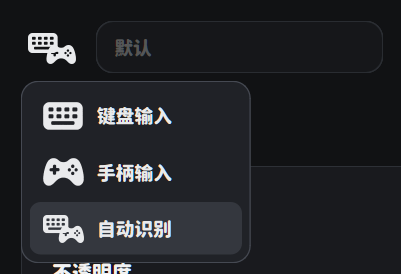
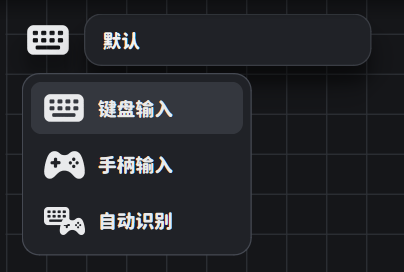
updated

diff --git a/wiki.html b/wiki.html
@@ -92,7 +92,7 @@
             <a href="#add-gamepad">手柄控件</a>
             <a href="#edit-controls">编辑控件</a>
             <a href="#presets">管理预设</a>
-            <a href="#global-style">全局样式</a>
+            <a href="#global-style">覆盖层与个性化</a>
             <a href="#overlay">覆盖层设置</a>
             <a href="#obs">在 OBS 中使用</a>
             <a href="#updates">自动更新</a>
@@ -112,16 +112,16 @@
             <li><span>1</span><div><strong>下载程序</strong><p>从官网或最新 Release 页面下载 <code>PA-Keystroke.exe</code>。</p></div></li>
             <li><span>2</span><div><strong>运行程序</strong><p>双击运行，并按 Windows 提示允许管理员权限。程序会打开设置窗口和透明覆盖层。</p></div></li>
             <li><span>3</span><div><strong>选择输入模式</strong><p>根据场景选择键盘、手柄或自动识别模式。</p></div></li>
-            <li><span>4</span><div><strong>调整布局与样式</strong><p>在预览区调整控件，并按需设置全局样式、整体缩放和覆盖层不透明度。</p></div></li>
+            <li><span>4</span><div><strong>调整布局与样式</strong><p>在预览区调整控件，并在底部 Dock 的“覆盖层”和“个性化”卡片中调整外观与界面主题。</p></div></li>
             <li><span>5</span><div><strong>保存并应用</strong><p>完成修改后必须点击“保存并应用”，覆盖层才会使用新布局。</p></div></li>
             <li><span>6</span><div><strong>在 OBS 中添加窗口捕获</strong><p>选择 <code>PA Keystroke Overlay</code>，采集方式选择 <code>Windows 10（1903 或更新版本）</code>。</p></div></li>
           </ol>
 
-          <figure class="wiki-media wiki-media-portrait">
+          <figure class="wiki-media">
             <button class="image-zoom" type="button" data-zoom="assets/screenshots/01-main-window.png" aria-label="放大查看设置主窗口">
-              <img src="assets/screenshots/01-main-window.png" alt="PA Keystroke 设置主窗口" width="1000" height="1187" loading="eager">
+              <img src="assets/screenshots/01-main-window.png" alt="PA Keystroke 设置主窗口" width="1180" height="760" loading="eager">
             </button>
-            <figcaption>设置主窗口集成了预览、控件编辑和覆盖层设置。</figcaption>
+            <figcaption>设置主窗口以预览区为主，覆盖层、个性化和应用设置通过底部 Dock 展开。</figcaption>
           </figure>
         </section>
 
@@ -162,8 +162,6 @@
           </div>
           <p>鼠标操作不会触发自动识别模式切换，只有键盘按键和手柄操作会参与判断。</p>
           <p>自动识别模式下，预览区和预设栏会锁定为只读，避免误改布局。</p>
-          <p>鼠标操作不会触发自动识别模式切换，只有键盘按键和手柄操作会参与判断。</p>
-          <p>自动识别模式下，预览区和预设栏会锁定为只读，避免误改布局。</p>
           <figure class="wiki-media wiki-media-small">
             <button class="image-zoom" type="button" data-zoom="assets/screenshots/04-auto-mode.png" aria-label="放大查看自动识别模式">
               <img src="assets/screenshots/04-auto-mode.png" alt="PA Keystroke 自动识别模式" width="401" height="274" loading="lazy">
@@ -190,11 +188,18 @@
           <h2>添加鼠标</h2>
           <ol class="step-list compact">
             <li><span>1</span><div><strong>选择“鼠标”</strong><p>点击“＋ 添加”，然后选择“鼠标”。</p></div></li>
-            <li><span>2</span><div><strong>设置显示区域</strong><p>选择是否显示侧键和中键。</p></div></li>
+            <li><span>2</span><div><strong>设置显示区域</strong><p>选择是否显示侧键、中键、滚轮指示和位移指示。</p></div></li>
             <li><span>3</span><div><strong>调整预览控件</strong><p>移动鼠标控件并拖动边缘改变尺寸。</p></div></li>
             <li><span>4</span><div><strong>保存并应用</strong><p>先点击弹窗中的“保存”，再点击主窗口的“保存并应用”。</p></div></li>
           </ol>
           <p>鼠标控件支持左键、右键、中键、侧键 1 和侧键 2。</p>
+          <p>鼠标主体内部的位移点会跟随鼠标移动，停止后逐渐回到中心。滚轮指示和位移指示可以在编辑页分别开启或关闭。</p>
+          <figure class="wiki-media wiki-media-small">
+            <button class="image-zoom" type="button" data-zoom="assets/screenshots/05-mouse-control.png" aria-label="放大查看鼠标编辑页">
+              <img src="assets/screenshots/05-mouse-control.png" alt="PA Keystroke 鼠标编辑页" width="533" height="614" loading="lazy">
+            </button>
+            <figcaption>鼠标编辑页可以分别控制侧键、中键、滚轮指示和位移指示。</figcaption>
+          </figure>
         </section>
 
         <section class="wiki-section" id="add-movement">
@@ -207,6 +212,7 @@
             <li><span>4</span><div><strong>保存并应用</strong><p>完成修改后应用布局。</p></div></li>
           </ol>
           <p>位移指示器会显示鼠标移动方向，并在停止移动后逐渐回到中心。</p>
+          <p>这是独立的位移指示器控件；如果只需要在鼠标主体内部显示位移点，直接在鼠标控件的编辑页开启“显示位移指示”即可。</p>
         </section>
 
         <section class="wiki-section" id="add-wheel">
@@ -320,16 +326,23 @@
 
         <section class="wiki-section" id="global-style">
           <p class="section-kicker">12</p>
-          <h2>全局样式</h2>
-          <p>“全局样式”用于统一设置普通按键、鼠标、指示器和手柄控件的外观。展开后可以调整以下颜色：</p>
+          <h2>覆盖层与个性化</h2>
+          <p>“覆盖层”卡片用于统一设置普通按键、鼠标、指示器和手柄控件的外观：</p>
           <ul class="plain-list">
             <li><strong>背景颜色</strong>：控制控件背景显示，可通过左侧勾选框开启或关闭。</li>
             <li><strong>外框颜色</strong>：控制控件外框显示，可通过左侧勾选框开启或关闭。</li>
-            <li><strong>触发颜色</strong>：控制按下或触发时的高亮颜色。</li>
-            <li><strong>文字颜色</strong>：控制按键文字的显示颜色，文本控件不受影响。</li>
+            <li><strong>文字显示比例</strong>：整体放大或缩小键帽文字。</li>
+            <li><strong>文字阴影</strong>：控制键帽文字是否显示投影。</li>
+            <li><strong>阴影浓度</strong>：调整文字阴影的明显程度。</li>
           </ul>
           <p>颜色支持 Alpha，可直接输入 <code>#RRGGBBAA</code>，也可以打开选色器后通过透明度滑条调整。</p>
-          <p>外框颜色关闭时，普通按键不显示外框；鼠标、指示器和手柄控件会恢复各自默认外框，避免控件不可见。</p>
+          <p>键帽文字颜色、触发颜色和阴影颜色会根据当前背景色自动推导，设置中不再单独提供手选。外框颜色关闭时，普通按键不显示外框；鼠标、指示器和手柄控件会恢复各自默认外框，避免控件不可见。</p>
+          <p>“个性化”卡片用于调整软件界面本身：</p>
+          <ul class="plain-list">
+            <li><strong>主题</strong>：深色、浅色、自动跟随系统。</li>
+            <li><strong>主题色</strong>：使用普通选色器选择强调色，并自动校正与界面的对比度。</li>
+          </ul>
+          <p>主题只影响设置界面和预览区外观，不会改变覆盖层中按键、鼠标和手柄控件的实际样式。</p>
         </section>
 
         <section class="wiki-section" id="overlay">
@@ -366,13 +379,16 @@
           <p>开启后覆盖层会移出所有屏幕，用户当前屏幕和直播画面中不会看到它，但窗口仍保持运行，可通过 OBS 的窗口捕获继续获取画面。</p>
           <p>关闭隐藏后，覆盖层会恢复到隐藏前的位置。切换锁定、调整缩放或保存设置不会把隐藏中的覆盖层拉回屏幕。</p>
 
+          <h3>应用设置</h3>
+          <p>“应用”卡片可以控制开机自启动、启动时是否显示设置窗口、启动时检查更新，以及关闭设置窗口时是否退出程序。</p>
+
           <h3>系统托盘</h3>
           <p>系统托盘菜单提供设置、锁定覆盖层、隐藏覆盖层、开机自启动、关于和退出。</p>
           <p>“隐藏覆盖层”与设置窗口中的同名开关双向同步，修改后会立即保存。</p>
 
           <h3>开机自启动</h3>
-          <p>勾选托盘菜单中的“开机自启动”后，程序会在 Windows 登录时启动。</p>
-          <p>开机启动只运行覆盖层并保留系统托盘图标，不显示设置主窗口。需要调整设置时，可以从托盘菜单点击“设置”或双击图标。</p>
+          <p>勾选托盘菜单或“应用”卡片中的“开机自启动”后，程序会在 Windows 登录时启动。</p>
+          <p>开机启动时是否显示设置窗口，由“应用”卡片中的“启动时显示设置”决定。关闭后只运行覆盖层并保留系统托盘图标；需要调整设置时，可以从托盘菜单点击“设置”或双击图标。</p>
         </section>
 
         <section class="wiki-section" id="obs">
@@ -400,9 +416,9 @@
         <section class="wiki-section" id="updates">
           <p class="section-kicker">15</p>
           <h2>自动检查更新</h2>
-          <p>程序每次启动时都会检查公开 Release 仓库。检查期间标题栏会显示加载动画；如果没有新版本，动画会自动隐藏。</p>
+          <p>程序默认在启动时检查公开 Release 仓库，可以在“应用”卡片中关闭“启动时检查更新”。检查期间标题栏会显示加载动画；如果没有新版本，动画会自动隐藏。</p>
           <p>发现新版本时，可以从更新提示中查看更新日志、打开发布页面、下载更新，并自动替换和重启。更新日志支持保留原文换行和显示 GitHub Release 正文中的远程图片。</p>
-          <p>也可以在关于页手动检查更新。</p>
+          <p>也可以在关于页手动检查更新；关闭自动检查后，仍可通过关于页检查。</p>
         </section>
 
         <section class="wiki-section" id="data-directory">
@@ -415,7 +431,7 @@
             <div><code>keystroke_presets.json</code><span>键盘预设</span></div>
             <div><code>keystroke_gamepad.json</code><span>当前手柄布局</span></div>
             <div><code>keystroke_gamepad_presets.json</code><span>手柄预设</span></div>
-            <div><code>user_settings.json</code><span>用户设置、覆盖层和运行设置</span></div>
+            <div><code>user_settings.json</code><span>用户设置、主题、覆盖层和运行设置</span></div>
           </div>
           <p>备份或迁移数据时，请先退出 PA Keystroke，再复制整个数据目录。</p>
         </section>

diff --git a/download.html b/download.html
@@ -59,9 +59,9 @@
           下载 PA-Keystroke.exe
         </a>
         <div class="release-facts" aria-live="polite" data-release-facts>
-          <span>版本 <strong data-release-version>v1.0.01</strong></span>
-          <span>大小 <strong data-release-size>48.2 MB</strong></span>
-          <span>更新 <strong data-release-date>2026-09-29</strong></span>
+          <span>版本 <strong data-release-version>v1.1.00</strong></span>
+          <span>大小 <strong data-release-size>48.3 MB</strong></span>
+          <span>更新 <strong data-release-date>2026-10-13</strong></span>
         </div>
         <a class="text-link" href="https://github.com/PA-Keystroke/PA-Keystroke-Releases/releases" target="_blank" rel="noreferrer">
           查看全部版本 <i data-lucide="arrow-right" aria-hidden="true"></i>
@@ -69,23 +69,23 @@
         <details class="release-notes" data-release-notes-panel>
           <summary>
             <span>更新日志</span>
-            <span data-release-notes-version>v1.0.01</span>
+            <span data-release-notes-version>v1.1.00</span>
             <i data-lucide="chevron-down" aria-hidden="true"></i>
           </summary>
           <div class="release-notes-body" data-release-notes>
             <h4>Changelog</h4>
-            <p><strong>特性优化</strong></p>
+            <p><strong>功能新增</strong></p>
             <ul>
-              <li>优化中英文混排字体显示。</li>
-              <li>优化预设列表显示、重命名体验和新建预设后的滚动定位。</li>
-              <li>优化自动识别模式下的预览、只读锁定和设备切换。</li>
-              <li>优化弹窗标题栏。</li>
+              <li>新增深色、浅色、自动跟随系统三套主题。</li>
+              <li>设置窗改为预览区铺满，使用 Dock 卡片管理覆盖层、个性化和应用。</li>
+              <li>鼠标控件新增内置位移点，滚轮指示和位移指示可分别显示。</li>
+              <li>新增开机自启动、启动时显示设置、启动时检查更新和关闭设置窗口时退出。</li>
             </ul>
             <p><strong>问题修复</strong></p>
             <ul>
-              <li>修复文本描边重影和部分中英文混排问题。</li>
-              <li>修复左右 Shift、Ctrl、Alt 无法识别的问题。</li>
-              <li>修复 Win 键显示错误、控件高度异常和圆角不一致。</li>
+              <li>修复 ESC 录制、键帽自动配色和背景触发过渡等问题。</li>
+              <li>修复卡片图标、主题下拉框、浅色模式配色和卡片展开避让问题。</li>
+              <li>修复保存并应用按钮错位、鼠标移动控件未触发保存和右键菜单堆叠问题。</li>
             </ul>
           </div>
         </details>

diff --git a/features.html b/features.html
@@ -62,11 +62,12 @@
           <div class="feature-copy">
             <p class="section-label reveal">键盘与鼠标</p>
             <h3 class="reveal">按键和移动方向，实时反馈。</h3>
-            <p class="reveal">按键按下时立即高亮。鼠标支持左键、右键、中键、侧键以及位移方向指示器。</p>
+            <p class="reveal">按键按下时立即高亮。鼠标支持左键、右键、中键、侧键，主体内部也可以显示位移点和滚轮反馈。</p>
             <ul class="feature-list reveal">
               <li>键盘布局按实际位置显示</li>
               <li>鼠标按键状态和高亮反馈</li>
-              <li>位移圆点跟随鼠标方向移动</li>
+              <li>鼠标内置位移点跟随移动方向</li>
+              <li>滚轮提示和位移提示可分别开关</li>
             </ul>
           </div>
           <div class="feature-media reveal">
@@ -87,6 +88,22 @@
           </div>
           <div class="feature-media compact-media reveal">
             <img src="assets/screenshots/03-overlay-gamepad.png" alt="PA Keystroke 手柄覆盖层" width="735" height="560" loading="lazy">
+          </div>
+        </article>
+
+        <article class="feature-block reverse" data-reveal-group>
+          <div class="feature-copy">
+            <p class="section-label reveal">界面主题</p>
+            <h3 class="reveal">深色、浅色，自动跟随系统。</h3>
+            <p class="reveal">设置窗口以预览区为主，通过底部 Dock 展开覆盖层、个性化和应用设置。主题色可以自由选择，并自动校正与界面的对比度。</p>
+            <ul class="feature-list reveal">
+              <li>深色、浅色、自动跟随系统</li>
+              <li>主题色自动校正可见度</li>
+              <li>应用页管理启动和关闭行为</li>
+            </ul>
+          </div>
+          <div class="feature-media reveal">
+            <img src="assets/screenshots/01-main-window.png" alt="PA Keystroke 设置界面" width="1180" height="760" loading="lazy">
           </div>
         </article>
 

diff --git a/index.html b/index.html
@@ -99,7 +99,7 @@
           <a class="text-link reveal" href="wiki.html">阅读 Wiki <i data-lucide="arrow-right" aria-hidden="true"></i></a>
         </div>
         <div class="editorial-media reveal">
-          <img src="assets/screenshots/01-main-window.png" alt="PA Keystroke 设置窗口" width="1000" height="1187" loading="lazy">
+          <img src="assets/screenshots/01-main-window.png" alt="PA Keystroke 设置窗口" width="1180" height="760" loading="lazy">
         </div>
       </div>
     </section>
